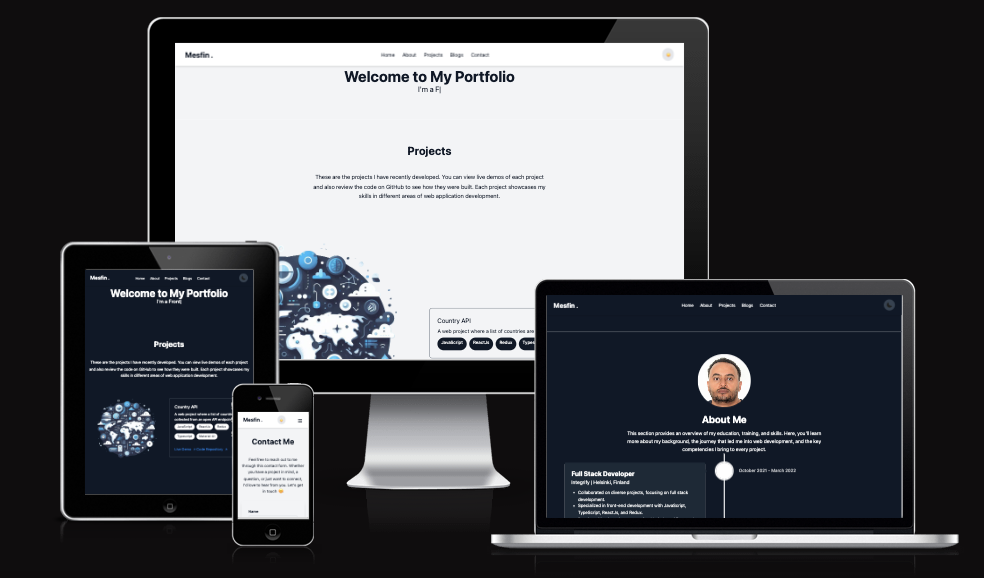
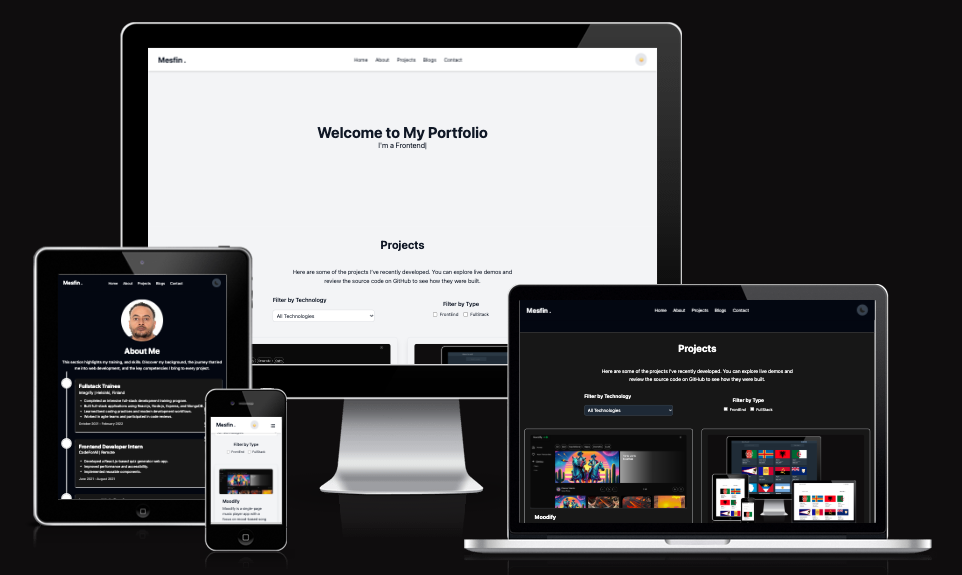
update home page

diff --git a/README.md b/README.md
@@ -1,40 +1,71 @@
-# Hi there, I'm Mesfin 👋
+# 👨💻 **Mesfin T.**
 
-Welcome to my GitHub profile! I'm a passionate developer with expertise in building web applications.
+**Frontend Developer | React.js | TypeScript Specialist | Crafting Beautiful & Responsive Web Experiences**  
+_"Transforming UI designs into pixel-perfect, performant reality"_
 
-## 🚀 My Portfolio
+---
 
-Check out my portfolio to see some of the projects I've worked on:
-![Portfolio Screenshot](https://github.com/mesfint/mesfint/blob/master/homePage-screen.png)
+## 🎨 **Featured Projects**
 
-You can visit my live portfolio here: [mesfin-portfolio](https://mesfint-portfolio2.web.app/)
+### 🍽 **Monadi Ravintola** (Microfrontend Architecture)
 
-## 🔧 Technologies & Tools
+**"A modular restaurant management system built for scale"**  
+![Monadi Preview](https://github.com/mesfint/monadiravintola/blob/main/Desktop-monadi-restaurant.png)
 
-- **Languages**: JavaScript, TypeScript, Python,SQL
-- **Frameworks**: React, Node.js, Express.js, MongoDB
+**✨ Frontend Stack:**
 
- 
+- React 18 + TypeScript (Strict mode)
+- Webpack 5 Module Federation
+- Material-UI v5 with custom theme
+- Microfrontend architecture (Independent deployment)
 
-## 🌟 Projects
+**🚀 Key Achievements:**  
+✅ Implemented shared dependency management  
+✅ Achieved sub-1s lazy-loaded microapps  
+✅ Custom design system with MUI theming  
+🔗 _Demo Coming Soon_ | 📂 [Code](https://github.com/mesfint/monadiravintola)
 
-- **Country API**  
-  A web project listing countries from an API.  
-  [Live Demo](https://responsive-countries-rest-api.netlify.app/) | [Code](https://github.com/mesfint/frontend-challenges/tree/main/rest-countries-api)
+---
 
-- **Book Library**  
-  A MERN application for managing book borrowings.  
-  [Live Demo](https://booklibrary.demo) | [Code](https://github.com/mesfint/booklibrary)
+### 🌍 **Country API Explorer**
 
+**"Interactive geographic data visualization"**  
+**🛠 Stack:** React, TypeScript, Redux Toolkit, MUI  
+**🔗 Live:** [Explore Now](https://responsive-countries-rest-api.netlify.app/)
 
+---
 
+### 📱 **PhoneBook Pro**
 
+**"Modern contact management with offline-first design"**  
+**🛠 Stack:** React, Context API, Express, MongoDB  
+**🔗 Live:** [Try Demo](https://booklibrary.demo)
 
-## 📈 GitHub Stats
+---
 
-![Mesfint's GitHub Stats](https://github-readme-stats.vercel.app/api?username=mesfint&show_icons=true&theme=radical)
+### 🎯 **Task Master**
 
-## 📫 How to reach me
+**"Keyboard-friendly productivity app"**  
+**🛠 Stack:** React + TypeScript, MUI, Jest/RTL  
+**🌟 Highlights:**
 
-- Email: [Contact Me](https://mesfint-portfolio2.web.app/)
-- LinkedIn: [Mesfint LinkedIn](https://www.linkedin.com/in/mesfin/)
+- 100% test coverage
+- WCAG 2.1 compliant
+
+---
+
+## 💻 **Frontend Expertise**
+
+```bash
+# Core
+React.js (Hooks + Context)  |  TypeScript  |  Microfrontends
+
+# Styling
+CSS-in-JS  |  Tailwind  |  MUI  |  Responsive Design
+
+# Performance
+Code Splitting  |  Lazy Loading  |  Bundle Optimization
+
+# Testing
+Jest  |  React Testing Library  |  Cypress
+```
